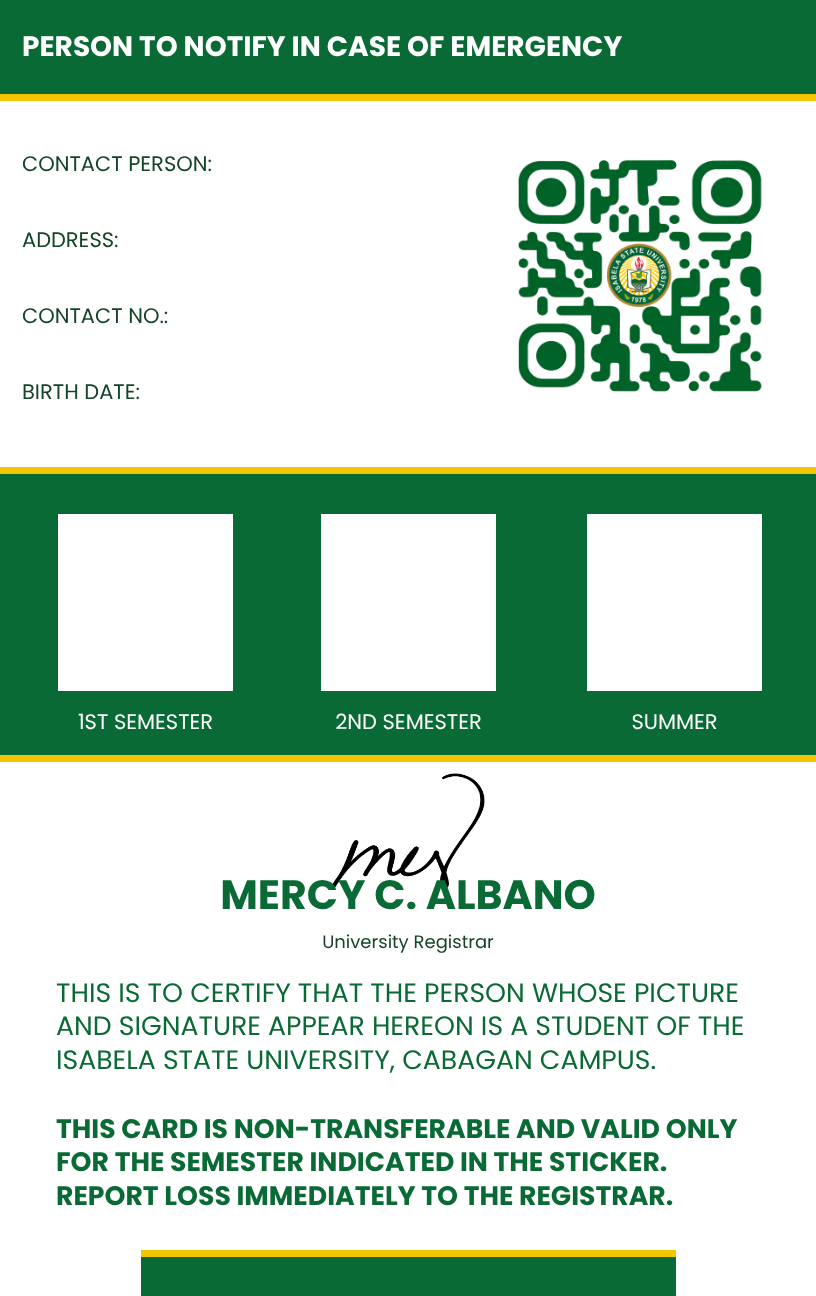
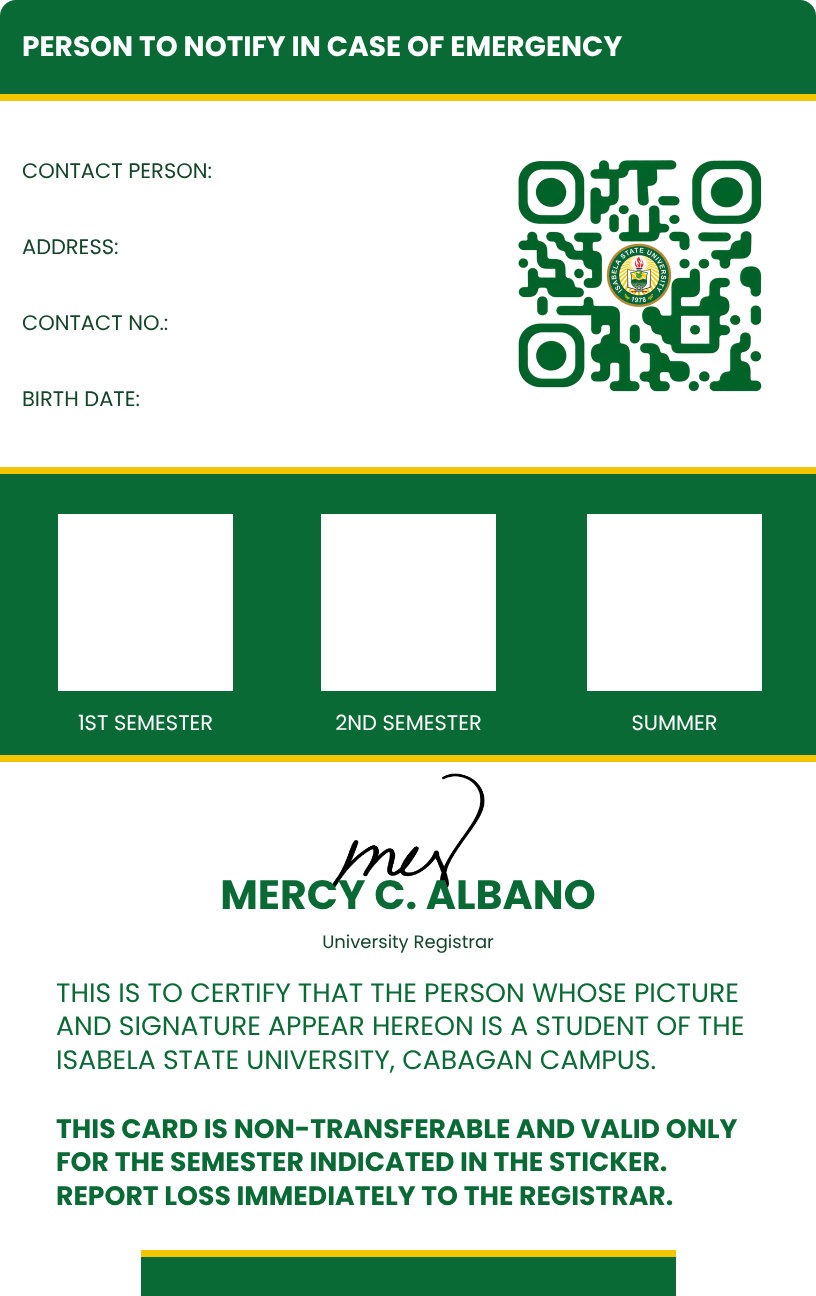
fix: align CR80 back-side text in two columns
- Labels in a fixed column, values in an aligned column (x 232-492),
  vertically centred per row
- Long values shrink to 22px, then wrap and keep shrinking to fit the row
- Rebuild the canvas back template from the HTML card so PNG/PDF export
  matches the preview; canvas gains a wrap option in renderText2026
- Bump SW cache to v3.8.5

Claude-Session: https://claude.ai/code/session_01AYJRir7nrSMsoGh9XVKpAJ

diff --git a/web/app.js b/web/app.js
@@ -200,54 +200,58 @@ const CONFIG_2026 = {
 
         /** CONTACT PERSON value — row 1 */
         parentName: {
-            x: 218, y: 175,
+            x: 232, y: 175,
             align: 'left',
             font: "bold 32px 'Poppins', Arial, sans-serif",
             isBold: true,
             strokeThickness: 0,
             fillStyle: '#0a6a35',
             strokeStyle: 'transparent',
-            maxWidth: 274,
-            autoShrink: 17
+            maxWidth: 260,
+            autoShrink: 22,
+            wrap: true
         },
 
         /** ADDRESS value — row 2 */
         address: {
-            x: 124, y: 251,
+            x: 232, y: 251,
             align: 'left',
             font: "bold 32px 'Poppins', Arial, sans-serif",
             isBold: true,
             strokeThickness: 0,
             fillStyle: '#0a6a35',
             strokeStyle: 'transparent',
-            maxWidth: 368,
-            autoShrink: 17
+            maxWidth: 260,
+            autoShrink: 22,
+            wrap: true
         },
 
         /** CONTACT NO. value — row 3 */
         telephone: {
-            x: 174, y: 327,
+            x: 232, y: 327,
             align: 'left',
             font: "bold 32px 'Poppins', Arial, sans-serif",
             isBold: true,
             strokeThickness: 0,
             fillStyle: '#0a6a35',
             strokeStyle: 'transparent',
-            maxWidth: 318,
-            autoShrink: 17
+            maxWidth: 260,
+            autoShrink: 22,
+            wrap: true
         },
 
         /** BIRTH DATE value — row 4 */
         dob: {
-            x: 146, y: 403,
+            x: 232, y: 403,
             align: 'left',
             font: "bold 32px 'Poppins', Arial, sans-serif",
             isBold: true,
             strokeThickness: 0,
             fillStyle: '#0a6a35',
             strokeStyle: 'transparent',
-            maxWidth: 346,
-            autoShrink: 17
+            maxWidth: 260,
+            autoShrink: 22,
+            wrap: true
         }
     }
 };
@@ -593,7 +597,7 @@ async function loadTemplates() {
         loadImage('images/template_front.id.png'),
         loadImage('images/template_back.id.png'),
         loadImage('images/2026_id/new_template_front.id.png?v=cr80'),
-        loadImage('images/2026_id/new_template_back.id.png?v=cr80'),
+        loadImage('images/2026_id/new_template_back.id.png?v=cr80b'),
         // CR80 design uses Poppins on the canvas — make sure it is loaded before first draw
         loadPoppinsFonts()
     ]);
@@ -946,6 +950,33 @@ function renderText2026(ctx, textConfig, textValue) {
         if (fontSize !== baseSize) lineHeight = lineHeight * (fontSize / baseSize);
     }
 
+    // wrap (optional): if the text still does not fit at the minimum size, word-wrap
+    // it into several lines (matches the CR80 HTML preview's two-line values).
+    if (textConfig.wrap && textConfig.maxWidth && lines.length === 1 && ctx.measureText(lines[0]).width > textConfig.maxWidth) {
+        const source = lines[0];
+        const baseFont = ctx.font;
+        const wrapAt = () => {
+            const wrapped = [];
+            let cur = '';
+            source.split(' ').forEach(w => {
+                const test = cur ? cur + ' ' + w : w;
+                if (cur && ctx.measureText(test).width > textConfig.maxWidth) { wrapped.push(cur); cur = w; }
+                else cur = test;
+            });
+            if (cur) wrapped.push(cur);
+            return wrapped;
+        };
+        let wrapped = wrapAt();
+        // keep shrinking until the wrapped block fits a 64px row (same rule as the HTML preview)
+        while (fontSize > 15 && wrapped.length * fontSize * 1.15 > 64) {
+            fontSize -= 1;
+            ctx.font = baseFont.replace(/(\d+(\.\d+)?)px/, `${fontSize}px`);
+            wrapped = wrapAt();
+        }
+        lines.splice(0, lines.length, ...wrapped);
+        lineHeight = fontSize * 1.15;
+    }
+
     // Center the whole block on textConfig.y
     const totalHeight = (lines.length - 1) * lineHeight;
     const startY      = textConfig.y - totalHeight / 2;
@@ -1075,11 +1106,25 @@ function renderCr80Preview() {
         drawHologramWatermark(hctx, holo.width, holo.height);
     }
 
-    // ── Back ──  (values may extend to x=492, just before the QR code)
+    // ── Back ──  aligned value column (x 232 → 492): shrink to 22px, then wrap to 2 lines
     const fill = (id, text) => {
         const el = $(id);
+        el.classList.remove('is-wrapped');
         el.textContent = text;
-        fitCr80Text(el, 32, 17, 470 - el.offsetLeft);
+        let size = 32;
+        el.style.fontSize = size + 'px';
+        while (size > 22 && el.scrollWidth > el.clientWidth) {
+            size -= 1;
+            el.style.fontSize = size + 'px';
+        }
+        if (el.scrollWidth > el.clientWidth) {
+            el.classList.add('is-wrapped');
+            // keep shrinking until the wrapped text fits the 64px row height
+            while (size > 15 && el.offsetHeight > 64) {
+                size -= 1;
+                el.style.fontSize = size + 'px';
+            }
+        }
     };
     fill('cr80-parent',    fd.parentName || 'JANE DELA CRUZ');
     fill('cr80-address',   fd.address    || 'BARUCBOC, QUEZON, ISABELA');

diff --git a/web/index.html b/web/index.html
@@ -54,7 +54,7 @@
 
 
 
-    <link rel="stylesheet" href="style.css?v=3.8.4">
+    <link rel="stylesheet" href="style.css?v=3.8.5">
 </head>
 
 
@@ -958,10 +958,10 @@
                                 <div class="cr80-face" id="cr80-back">
                                     <div class="cr80-back-header">PERSON TO NOTIFY IN CASE OF EMERGENCY</div>
                                     <div class="cr80-bar cr80-bar--header-gold"></div>
-                                    <div class="cr80-row cr80-row--1">CONTACT PERSON: <span class="cr80-val" id="cr80-parent"></span></div>
-                                    <div class="cr80-row cr80-row--2">ADDRESS: <span class="cr80-val" id="cr80-address"></span></div>
-                                    <div class="cr80-row cr80-row--3">CONTACT NO.: <span class="cr80-val" id="cr80-telephone"></span></div>
-                                    <div class="cr80-row cr80-row--4">BIRTH DATE: <span class="cr80-val" id="cr80-dob"></span></div>
+                                    <div class="cr80-row cr80-row--1"><span class="cr80-key">CONTACT PERSON:</span><span class="cr80-val" id="cr80-parent"></span></div>
+                                    <div class="cr80-row cr80-row--2"><span class="cr80-key">ADDRESS:</span><span class="cr80-val" id="cr80-address"></span></div>
+                                    <div class="cr80-row cr80-row--3"><span class="cr80-key">CONTACT NO.:</span><span class="cr80-val" id="cr80-telephone"></span></div>
+                                    <div class="cr80-row cr80-row--4"><span class="cr80-key">BIRTH DATE:</span><span class="cr80-val" id="cr80-dob"></span></div>
                                     <img class="cr80-qr" src="images/2026_id/cr80_qr.png" alt="Student QR code">
                                     <div class="cr80-sticker-band"></div>
                                     <div class="cr80-bar cr80-bar--band-top"></div>

diff --git a/web/style.css b/web/style.css
@@ -6042,12 +6042,21 @@ a[aria-label="Email"]:hover {
     font-size: 28px; font-weight: 700;
 }
 .cr80-bar--header-gold { top: 94px; height: 7px; background: var(--cr80-gold); }
-.cr80-row { left: 22px; width: 470px; font-size: 21px; color: var(--cr80-ink); white-space: nowrap; }
-.cr80-row--1 { top: 148px; }
-.cr80-row--2 { top: 224px; }
-.cr80-row--3 { top: 300px; }
-.cr80-row--4 { top: 376px; }
-.cr80-val { font-size: 32px; font-weight: 700; color: var(--cr80-green); }
+/* Two-column rows: fixed label column + aligned value column (x = 232 → 492) */
+.cr80-row {
+    left: 22px; width: 470px; height: 64px; display: flex; align-items: center;
+    font-size: 21px; color: var(--cr80-ink);
+}
+.cr80-row--1 { top: 139px; }
+.cr80-row--2 { top: 215px; }
+.cr80-row--3 { top: 291px; }
+.cr80-row--4 { top: 367px; }
+.cr80-key { flex: 0 0 210px; white-space: nowrap; }
+.cr80-face .cr80-val {
+    flex: 1 1 auto; min-width: 0; font-size: 32px; font-weight: 700; line-height: 1.15;
+    color: var(--cr80-green); white-space: nowrap; overflow-wrap: anywhere;
+}
+.cr80-face .cr80-val.is-wrapped { white-space: normal; }
 .cr80-qr { left: 510px; top: 148px; width: 262px; height: 262px; object-fit: contain; }
 .cr80-sticker-band { left: 0; top: 467px; width: 816px; height: 295px; background: var(--cr80-green); }
 .cr80-bar--band-top { top: 467px; height: 7px; background: var(--cr80-gold); }

diff --git a/web/sw.js b/web/sw.js
@@ -1,14 +1,14 @@
 /**
  * ISU ID Generator — Service Worker (PWA Offline & Instant Load Cache)
- * Cache version: isu-id-v3.8.4
+ * Cache version: isu-id-v3.8.5
  */
 
-const CACHE_NAME = 'isu-id-v3.8.4';
+const CACHE_NAME = 'isu-id-v3.8.5';
 
 const PRECACHE_ASSETS = [
   './',
   './index.html',
-  './style.css?v=3.8.4',
+  './style.css?v=3.8.5',
   './app.js',
   './animations.js',
   './manifest.webmanifest',
@@ -19,7 +19,7 @@ const PRECACHE_ASSETS = [
   './images/2026_id/front_reference.png',
   './images/2026_id/back_reference.png',
   './images/2026_id/new_template_front.id.png?v=cr80',
-  './images/2026_id/new_template_back.id.png?v=cr80',
+  './images/2026_id/new_template_back.id.png?v=cr80b',
   './images/2026_id/cr80_seal.png',
   './images/2026_id/cr80_qr.png',
   './images/2026_id/cr80_registrar_signature.png',
